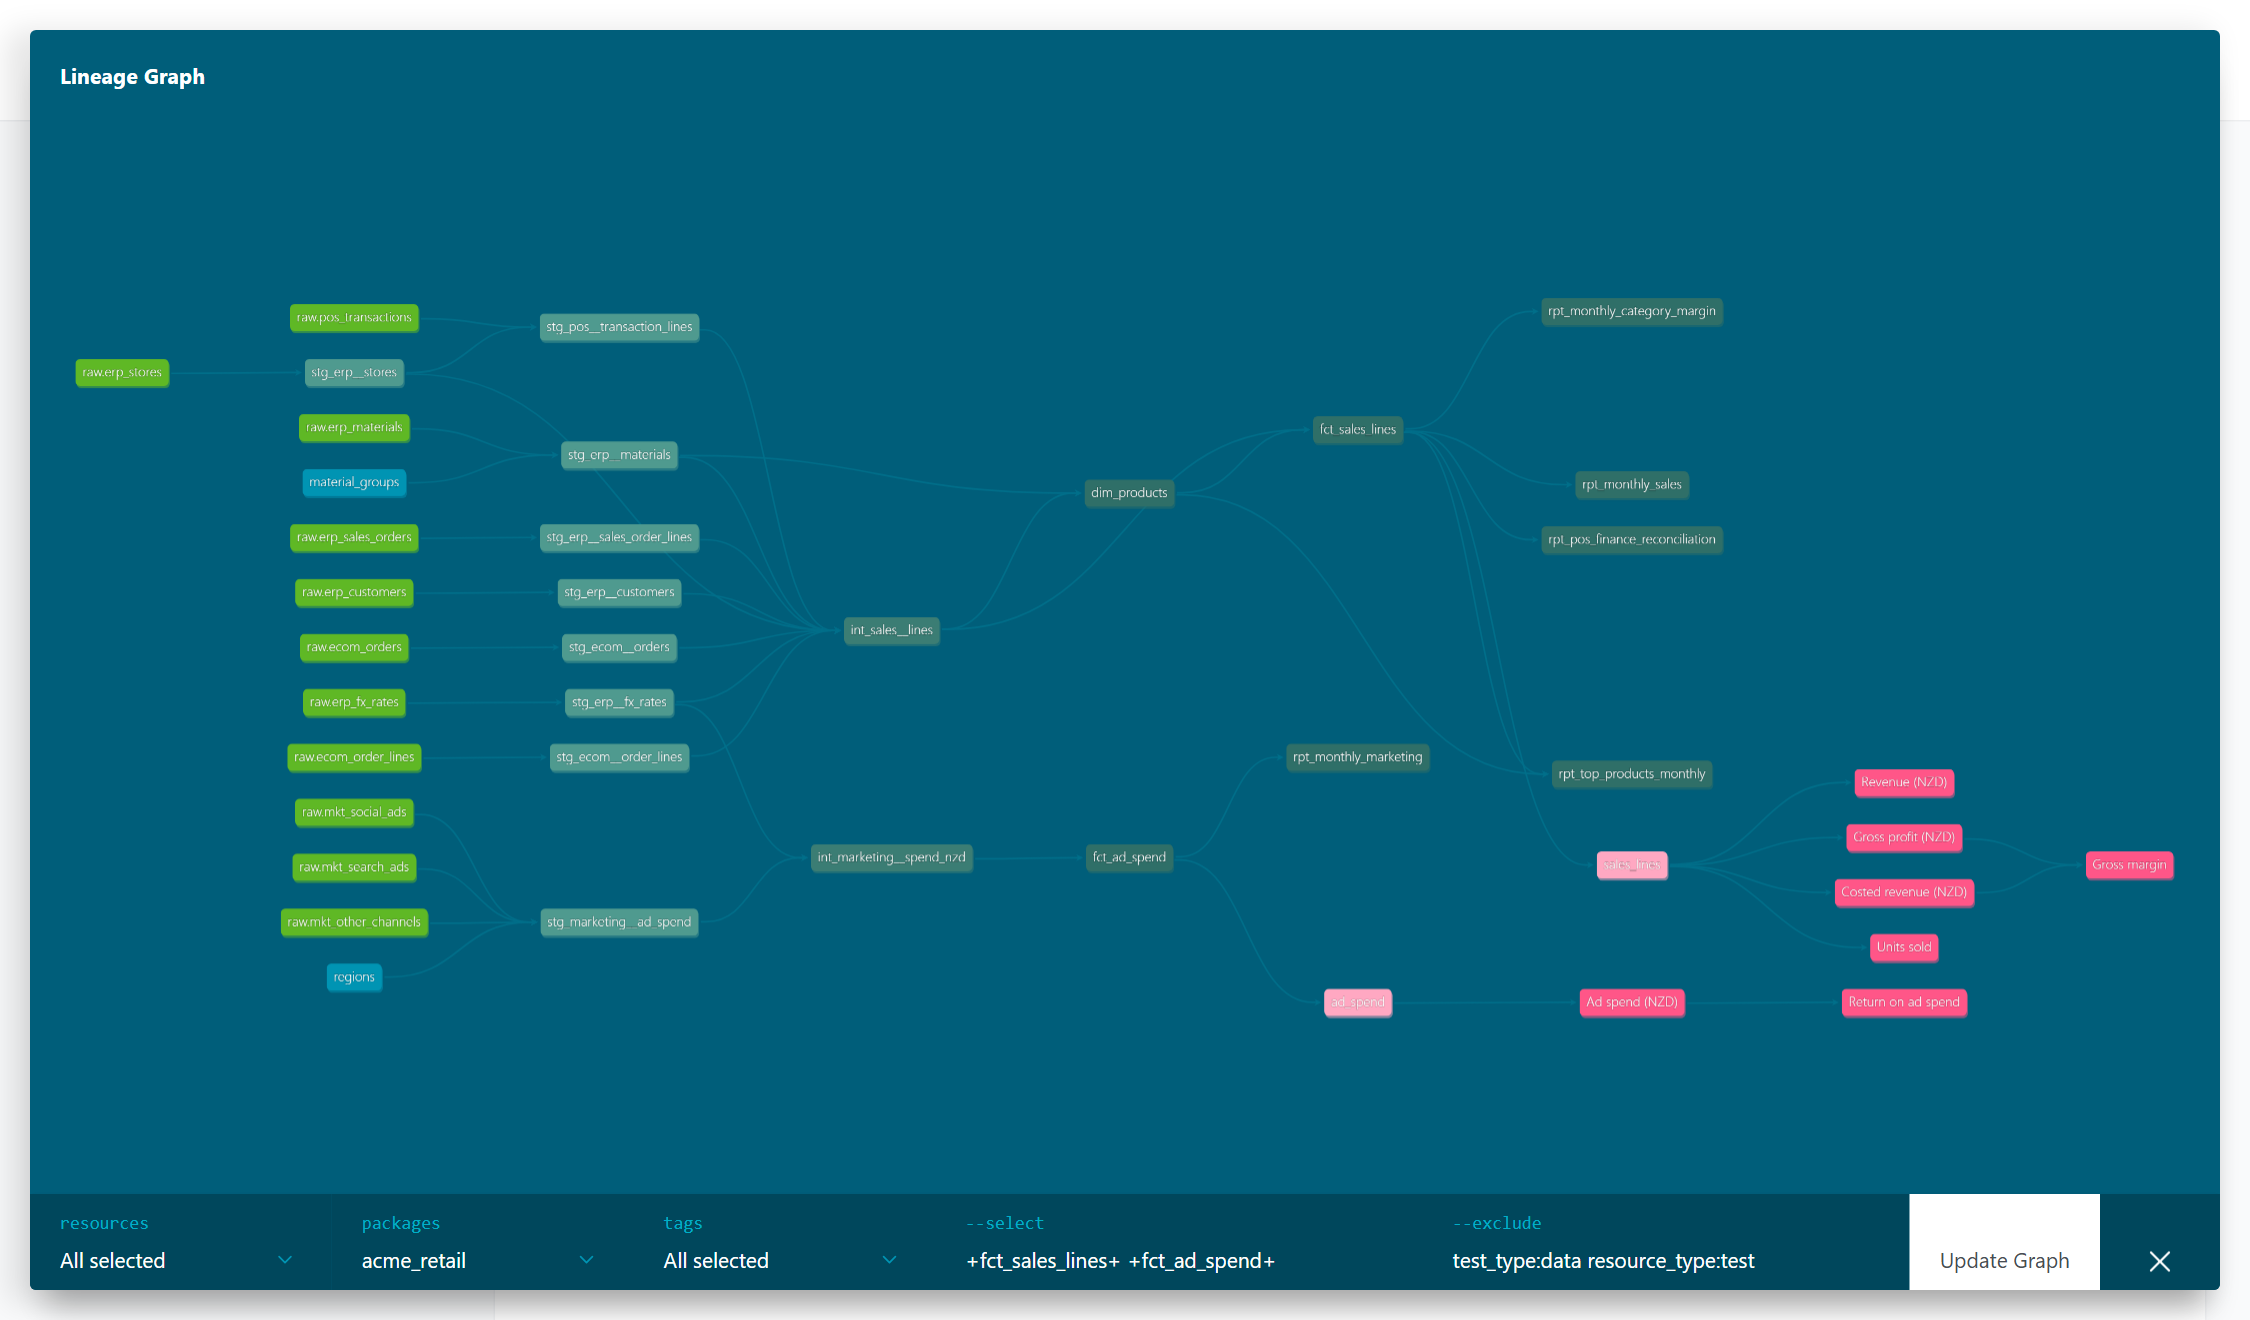
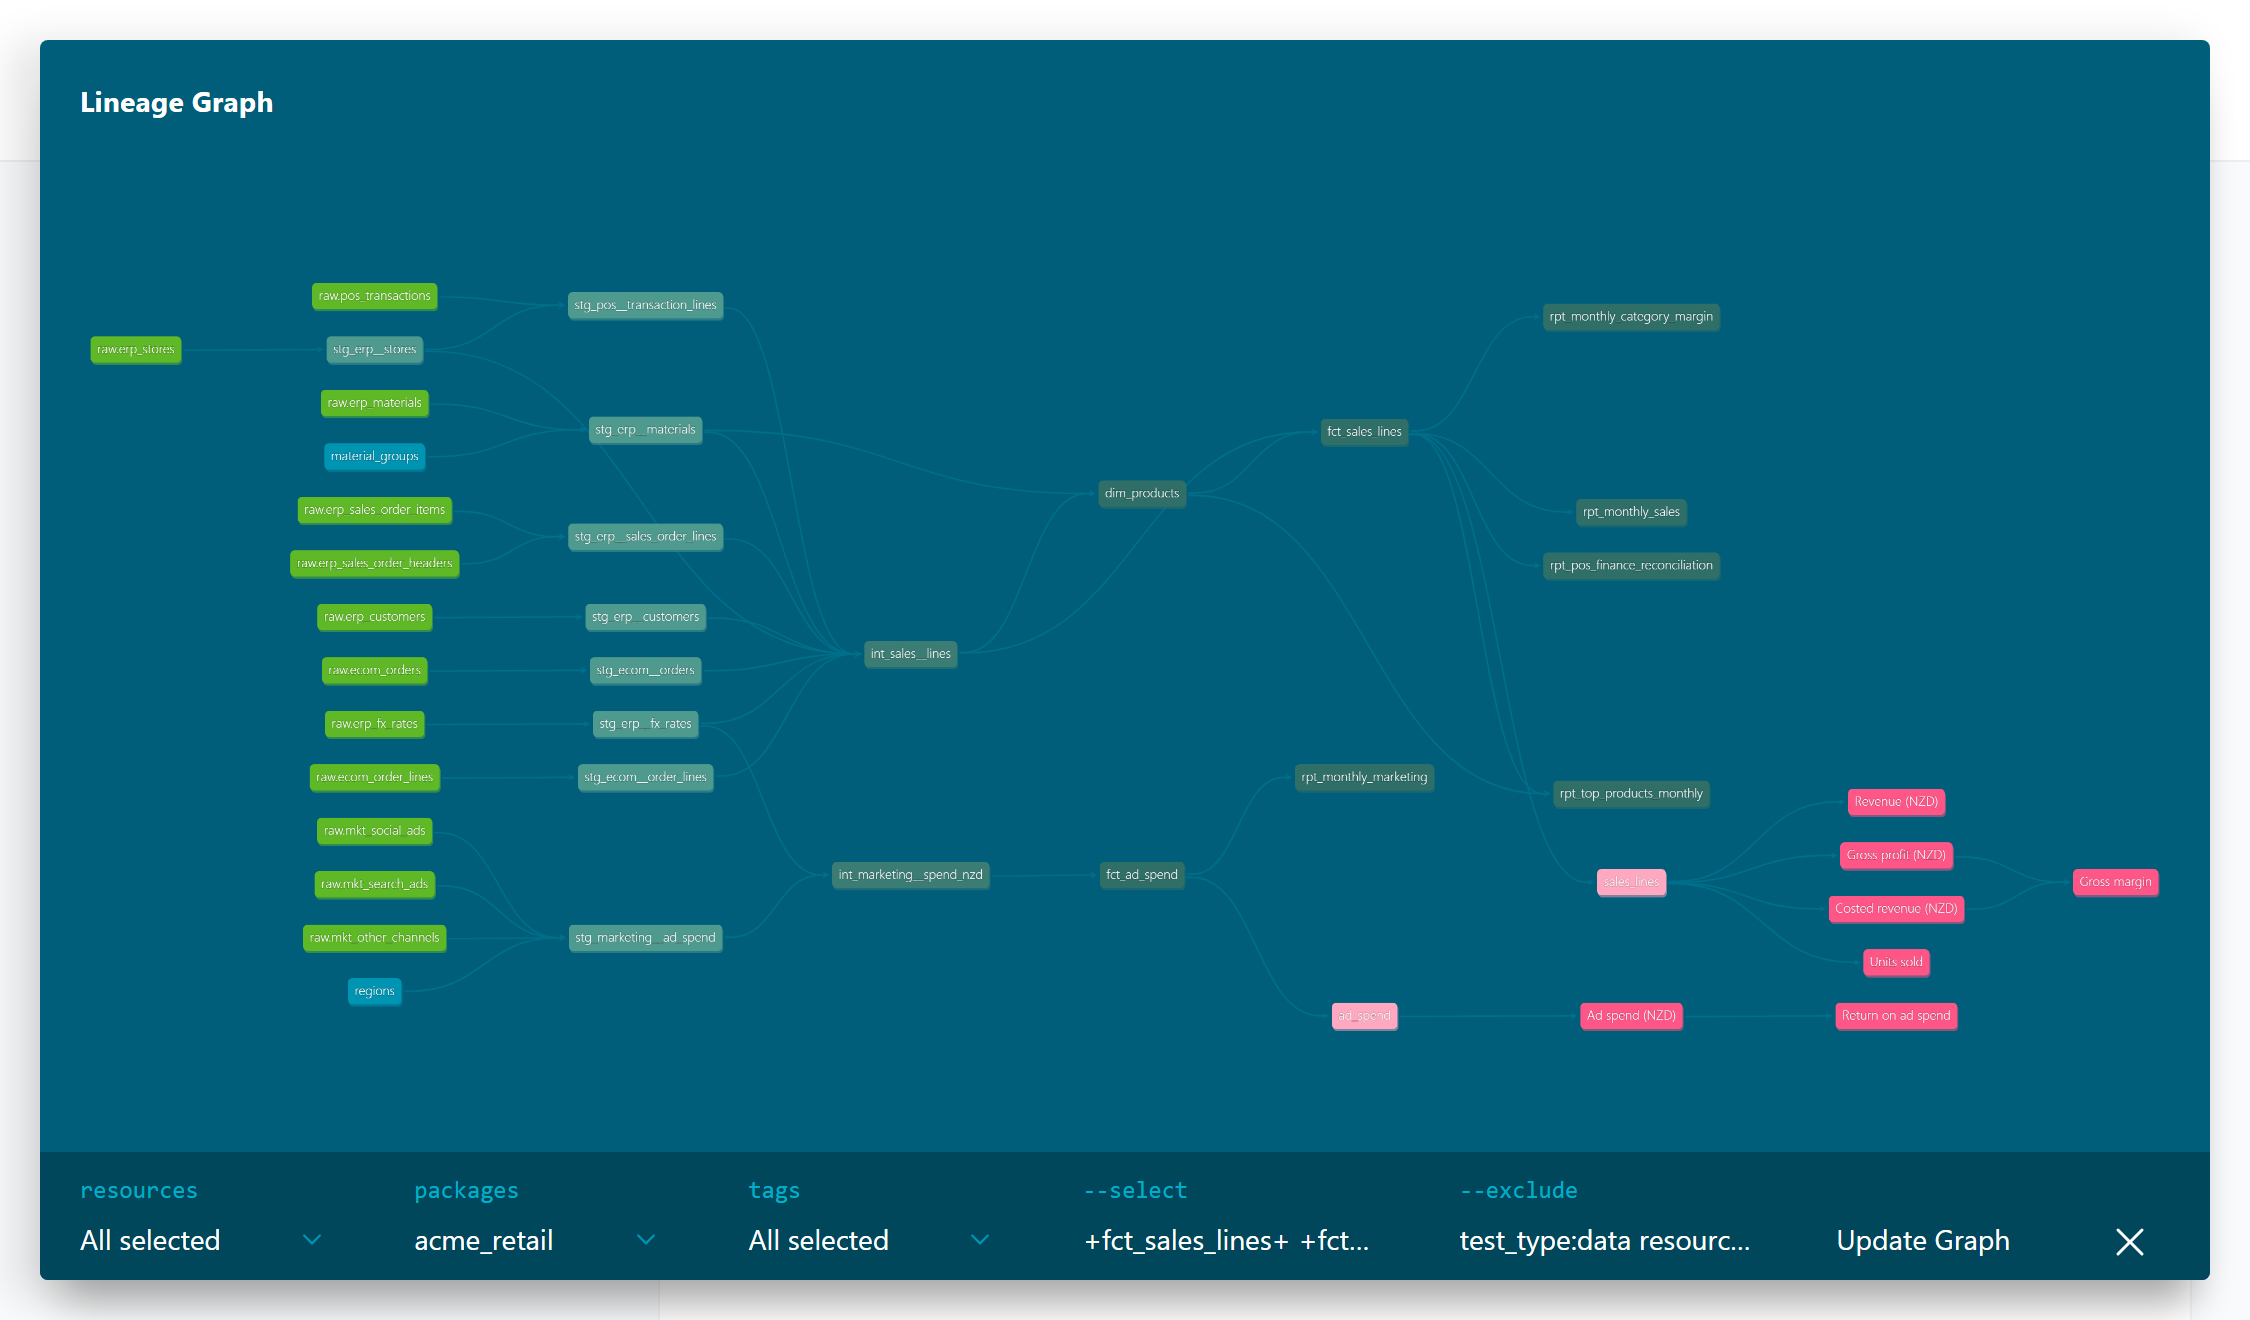
ERP feed in SAP SD format: VBAK sales order headers and VBAP items
The generator writes wholesale orders as monthly vbak_/vbap_ files with SAP field
names (VBELN, POSNR, MATNR, KWMENG, NETWR, ...). Ingest loads them as two raw feeds,
the staging model joins items to headers and keeps the same output columns, and the
legacy script reads the new files. The planted missing-material failure is now
detected on VBAP-MATNR. dbt build, DQ report and evaluation results are unchanged;
the build, lineage and DQ report screenshots and the GIFs are retaken.

diff --git a/retail_ai/generator/write.py b/retail_ai/generator/write.py
@@ -108,28 +108,54 @@ def write(dataset: Dataset, raw: Path, planted: Planted | None = None, late_dir:
         )
         files += 1
 
+    # Wholesale orders as an SAP SD sales-order extract: VBAK (header) and VBAP (item) field names,
+    # one header file and one item file per month.
+    country_of = {cid: c.REGION_BY_CODE[region].country for cid, _name, region in c.CUSTOMERS}
     w = d.wholesale.assign(month=pd.to_datetime(d.wholesale["doc_date"]).dt.strftime("%Y-%m"))
     for month, part in w.groupby("month"):
+        heads = part.groupby("sales_doc", as_index=False, sort=False).agg(
+            doc_date=("doc_date", "first"),
+            req=("req_delivery_date", "first"),
+            sold_to=("sold_to", "first"),
+            currency=("currency", "first"),
+            net=("net_value", "sum"),
+        )
         _save(
             pd.DataFrame(
                 {
-                    "SALES_DOC": part["sales_doc"],
-                    "ITEM": part["item"],
-                    "DOC_DATE": _ymd(part["doc_date"]),
-                    "SOLD_TO": part["sold_to"],
-                    "MATERIAL": part["material_id"],
-                    "ORDER_QTY": part["order_qty"],
-                    "UOM": part["uom"],
-                    "NET_PRICE": part["net_price"],
-                    "NET_VALUE": part["net_value"],
-                    "CURRENCY": part["currency"],
-                    "REQ_DLV_DATE": _ymd(part["req_delivery_date"]),
+                    "VBELN": heads["sales_doc"],
+                    "AUART": "OR",
+                    "VKORG": heads["sold_to"].map(country_of) + "10",
+                    "VTWEG": "20",
+                    "SPART": "00",
+                    "AUDAT": _ymd(heads["doc_date"]),
+                    "VDATU": _ymd(heads["req"]),
+                    "KUNNR": heads["sold_to"],
+                    "WAERK": heads["currency"],
+                    "NETWR": heads["net"].round(2),
                 }
             ),
-            raw / "erp" / f"sales_orders_{month}.csv",
+            raw / "erp" / f"vbak_{month}.csv",
             _month_extract(month),
         )
-        files += 1
+        _save(
+            pd.DataFrame(
+                {
+                    "VBELN": part["sales_doc"],
+                    "POSNR": part["item"].map(lambda i: f"{int(i):06d}"),
+                    "MATNR": part["material_id"],
+                    "KWMENG": part["order_qty"].map(lambda q: f"{q:.3f}"),
+                    "VRKME": part["uom"],
+                    "NETPR": part["net_price"],
+                    "KPEIN": 1,
+                    "NETWR": part["net_value"],
+                    "WAERK": part["currency"],
+                }
+            ),
+            raw / "erp" / f"vbap_{month}.csv",
+            _month_extract(month),
+        )
+        files += 2
 
     # POS: one file per store per month
     pos = d.pos.assign(month=d.pos["txn_ts"].dt.strftime("%Y-%m"))

diff --git a/retail_ai/legacy/legacy_reports.py b/retail_ai/legacy/legacy_reports.py
@@ -72,21 +72,18 @@ def main():
     web["is_sale"] = True
 
     # ---- wholesale
-    so = pd.concat(
-        [
-            pd.read_csv(f, dtype={"DOC_DATE": str, "SALES_DOC": str})
-            for f in sorted(glob.glob(RAW + "/erp/sales_orders_*.csv"))
-        ]
-    )
-    so["day"] = so["DOC_DATE"].str[0:4] + "-" + so["DOC_DATE"].str[4:6] + "-" + so["DOC_DATE"].str[6:8]
+    hd = pd.concat([pd.read_csv(f, dtype=str) for f in sorted(glob.glob(RAW + "/erp/vbak_*.csv"))])
+    so = pd.concat([pd.read_csv(f, dtype={"VBELN": str}) for f in sorted(glob.glob(RAW + "/erp/vbap_*.csv"))])
+    so = so.merge(hd[["VBELN", "AUDAT", "KUNNR"]], on="VBELN")
+    so["day"] = so["AUDAT"].str[0:4] + "-" + so["AUDAT"].str[4:6] + "-" + so["AUDAT"].str[6:8]
     so["month"] = so["day"].str[0:7]
-    so["rev"] = so.apply(lambda r: nzd(r["NET_VALUE"], r["CURRENCY"], r["day"]), axis=1)
-    so = so.merge(mats[["MATERIAL", "STD_COST_NZD", "cat"]], on="MATERIAL")
-    so["cogs"] = so["STD_COST_NZD"] * so["ORDER_QTY"]
+    so["rev"] = so.apply(lambda r: nzd(r["NETWR"], r["WAERK"], r["day"]), axis=1)
+    so = so.merge(mats[["MATERIAL", "STD_COST_NZD", "cat"]], left_on="MATNR", right_on="MATERIAL")
+    so["cogs"] = so["STD_COST_NZD"] * so["KWMENG"]
     so["channel"] = "wholesale"
-    so["region"] = so["SOLD_TO"].map(cust_region)
-    so["order_id"] = so["SALES_DOC"]
-    so["quantity"] = so["ORDER_QTY"]
+    so["region"] = so["KUNNR"].map(cust_region)
+    so["order_id"] = so["VBELN"]
+    so["quantity"] = so["KWMENG"]
     so["is_sale"] = True
 
     cols = ["month", "channel", "region", "order_id", "quantity", "rev", "cogs", "cat", "is_sale"]

diff --git a/tests/test_generator.py b/tests/test_generator.py
@@ -78,3 +78,13 @@ def test_landing_zone_layout_and_ground_truth(dataset, tmp_path):
     assert set(s07["currency"]) == {"NZD"}
     gt = json.loads((tmp_path / "gt.json").read_text())
     assert gt["planted"] and len(gt["failures"]) == 6 and gt["files"] == summary["files"]
+    # Wholesale orders arrive as an SAP SD extract: VBAK headers and VBAP items whose net values add up.
+    vbak = pd.read_csv(raw / "erp" / "vbak_2025-11.csv", dtype=str)
+    vbap = pd.read_csv(raw / "erp" / "vbap_2025-11.csv", dtype=str)
+    assert {"VBELN", "AUART", "VKORG", "AUDAT", "VDATU", "KUNNR", "WAERK", "NETWR"} <= set(vbak.columns)
+    assert {"VBELN", "POSNR", "MATNR", "KWMENG", "VRKME", "NETPR", "KPEIN", "NETWR"} <= set(vbap.columns)
+    assert vbak["VBELN"].is_unique and set(vbap["VBELN"]) == set(vbak["VBELN"])
+    assert vbap["POSNR"].str.fullmatch(r"\d{6}").all()
+    item_sum = vbap.assign(n=vbap["NETWR"].astype(float)).groupby("VBELN")["n"].sum().round(2)
+    head = vbak.set_index("VBELN")["NETWR"].astype(float)
+    assert (item_sum.sort_index() - head.sort_index()).abs().max() < 0.005

diff --git a/retail_ai/generator/plant.py b/retail_ai/generator/plant.py
@@ -111,8 +111,8 @@ def plant(clean: Dataset) -> Planted:
         {
             "id": "F5",
             "kind": "missing_foreign_key",
-            "source": "erp.sales_orders",
-            "where": "erp/sales_orders_2026-03.csv -> erp/materials.csv",
+            "source": "erp.sales_order_items",
+            "where": "erp/vbap_2026-03.csv -> erp/materials.csv",
             "detail": f"Wholesale lines order {late_id}, which the material master export does not contain yet.",
             "rows": orphan,
             "material_id": late_id,

diff --git a/retail_ai/ingest.py b/retail_ai/ingest.py
@@ -18,7 +18,8 @@ FEEDS: dict[str, str] = {
     "erp_stores": "erp/stores.csv",
     "erp_fx_rates": "erp/fx_rates.csv",
     "erp_gl_store_takings": "erp/gl_store_takings_*.csv",
-    "erp_sales_orders": "erp/sales_orders_*.csv",
+    "erp_sales_order_headers": "erp/vbak_*.csv",
+    "erp_sales_order_items": "erp/vbap_*.csv",
     "pos_transactions": "pos/*/pos_*.csv",
     "ecom_orders": "ecommerce/orders_*.csv",
     "ecom_order_lines": "ecommerce/order_lines_*.csv",

diff --git a/docs/design.md b/docs/design.md
@@ -14,7 +14,7 @@ moment, so results are identical on any day.
 |---|---|---|---|
 | ERP material master, customers, stores, FX rates | `erp/*.csv` | daily snapshot | upper-case SAP-style names, `yyyymmdd` dates |
 | ERP finance ledger (store takings) | `erp/gl_store_takings_YYYY-MM.csv` | monthly | NZD and local amounts per store-day |
-| ERP wholesale sales orders | `erp/sales_orders_YYYY-MM.csv` | monthly | `SALES_DOC`, `ITEM`, `MATERIAL`, `NET_VALUE` |
+| ERP wholesale sales orders, SAP SD format | `erp/vbak_YYYY-MM.csv` (headers), `erp/vbap_YYYY-MM.csv` (items) | monthly | SAP VBAK/VBAP field names: `VBELN`, `AUART`, `VKORG`, `KUNNR`, `AUDAT`, `VDATU`, `NETWR` on the header; `VBELN`, `POSNR` (`000010`), `MATNR`, `KWMENG` (3 decimals), `VRKME`, `NETPR` per `KPEIN`, `NETWR`, `WAERK` on the item |
 | Store tills (POS) | `pos/<store>/pos_<store>_YYYY-MM.csv` | monthly per store | one row per transaction line; refunds are `RETURN` lines |
 | Web shop | `ecommerce/orders_*.csv`, `order_lines_*.csv` | monthly | last-touch `marketing_channel` on each order |
 | 3PL shipments | `logistics/shipments_YYYY-Www.csv` | weekly, 9 days after the week | promised and delivered timestamps |
